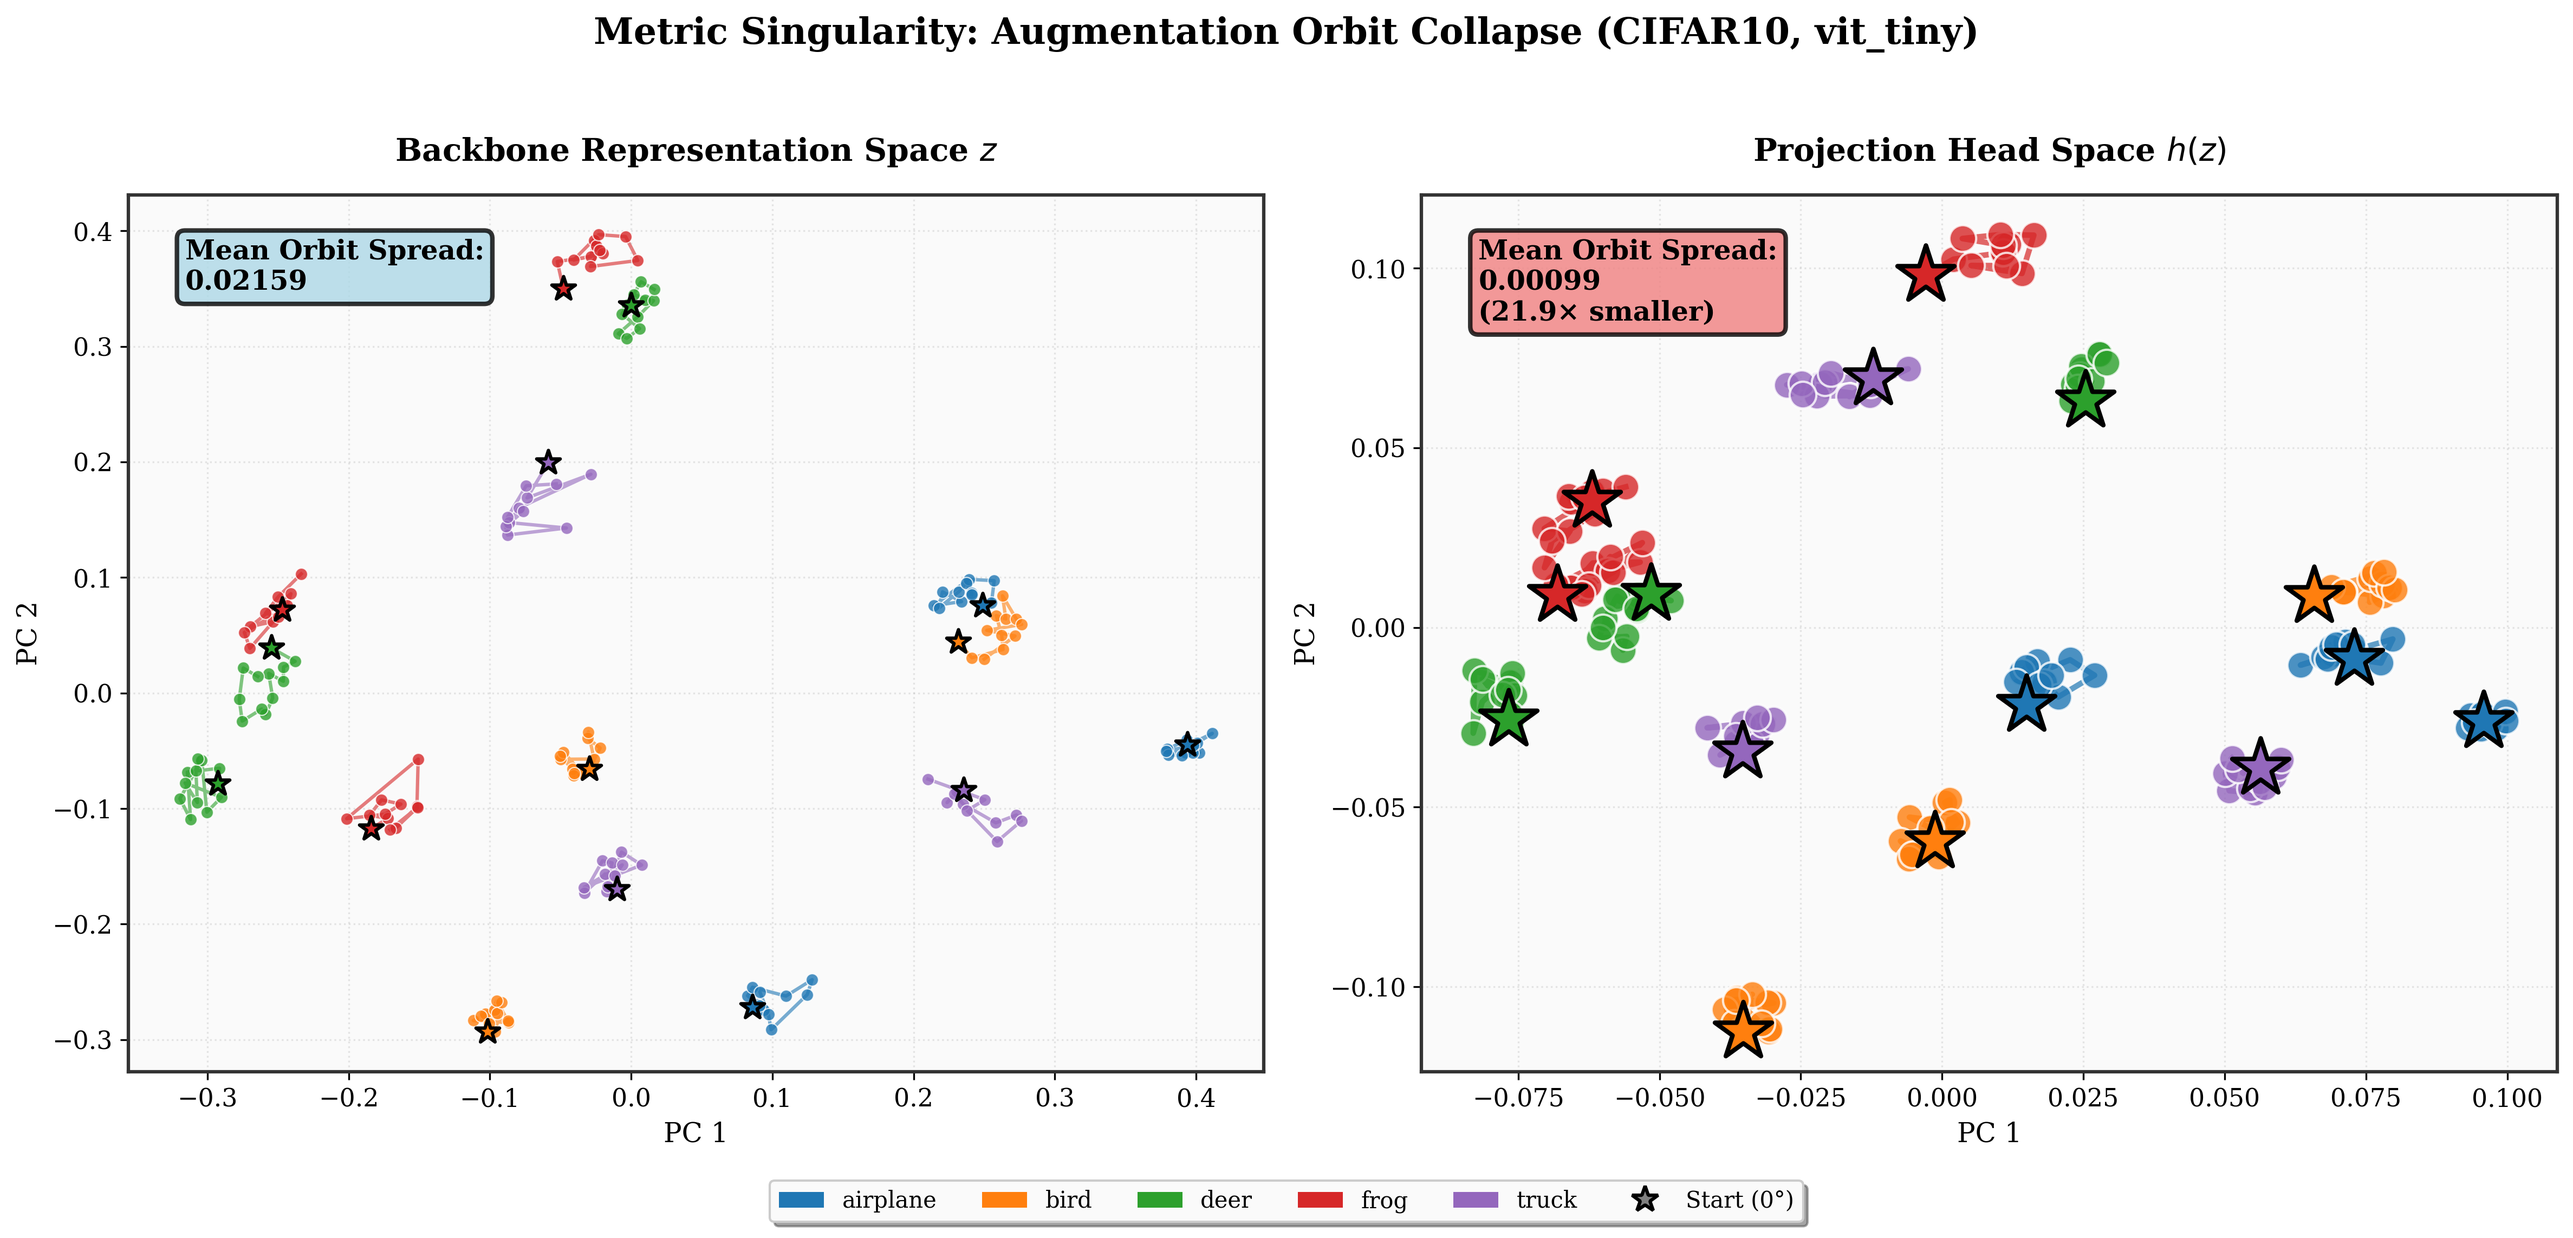
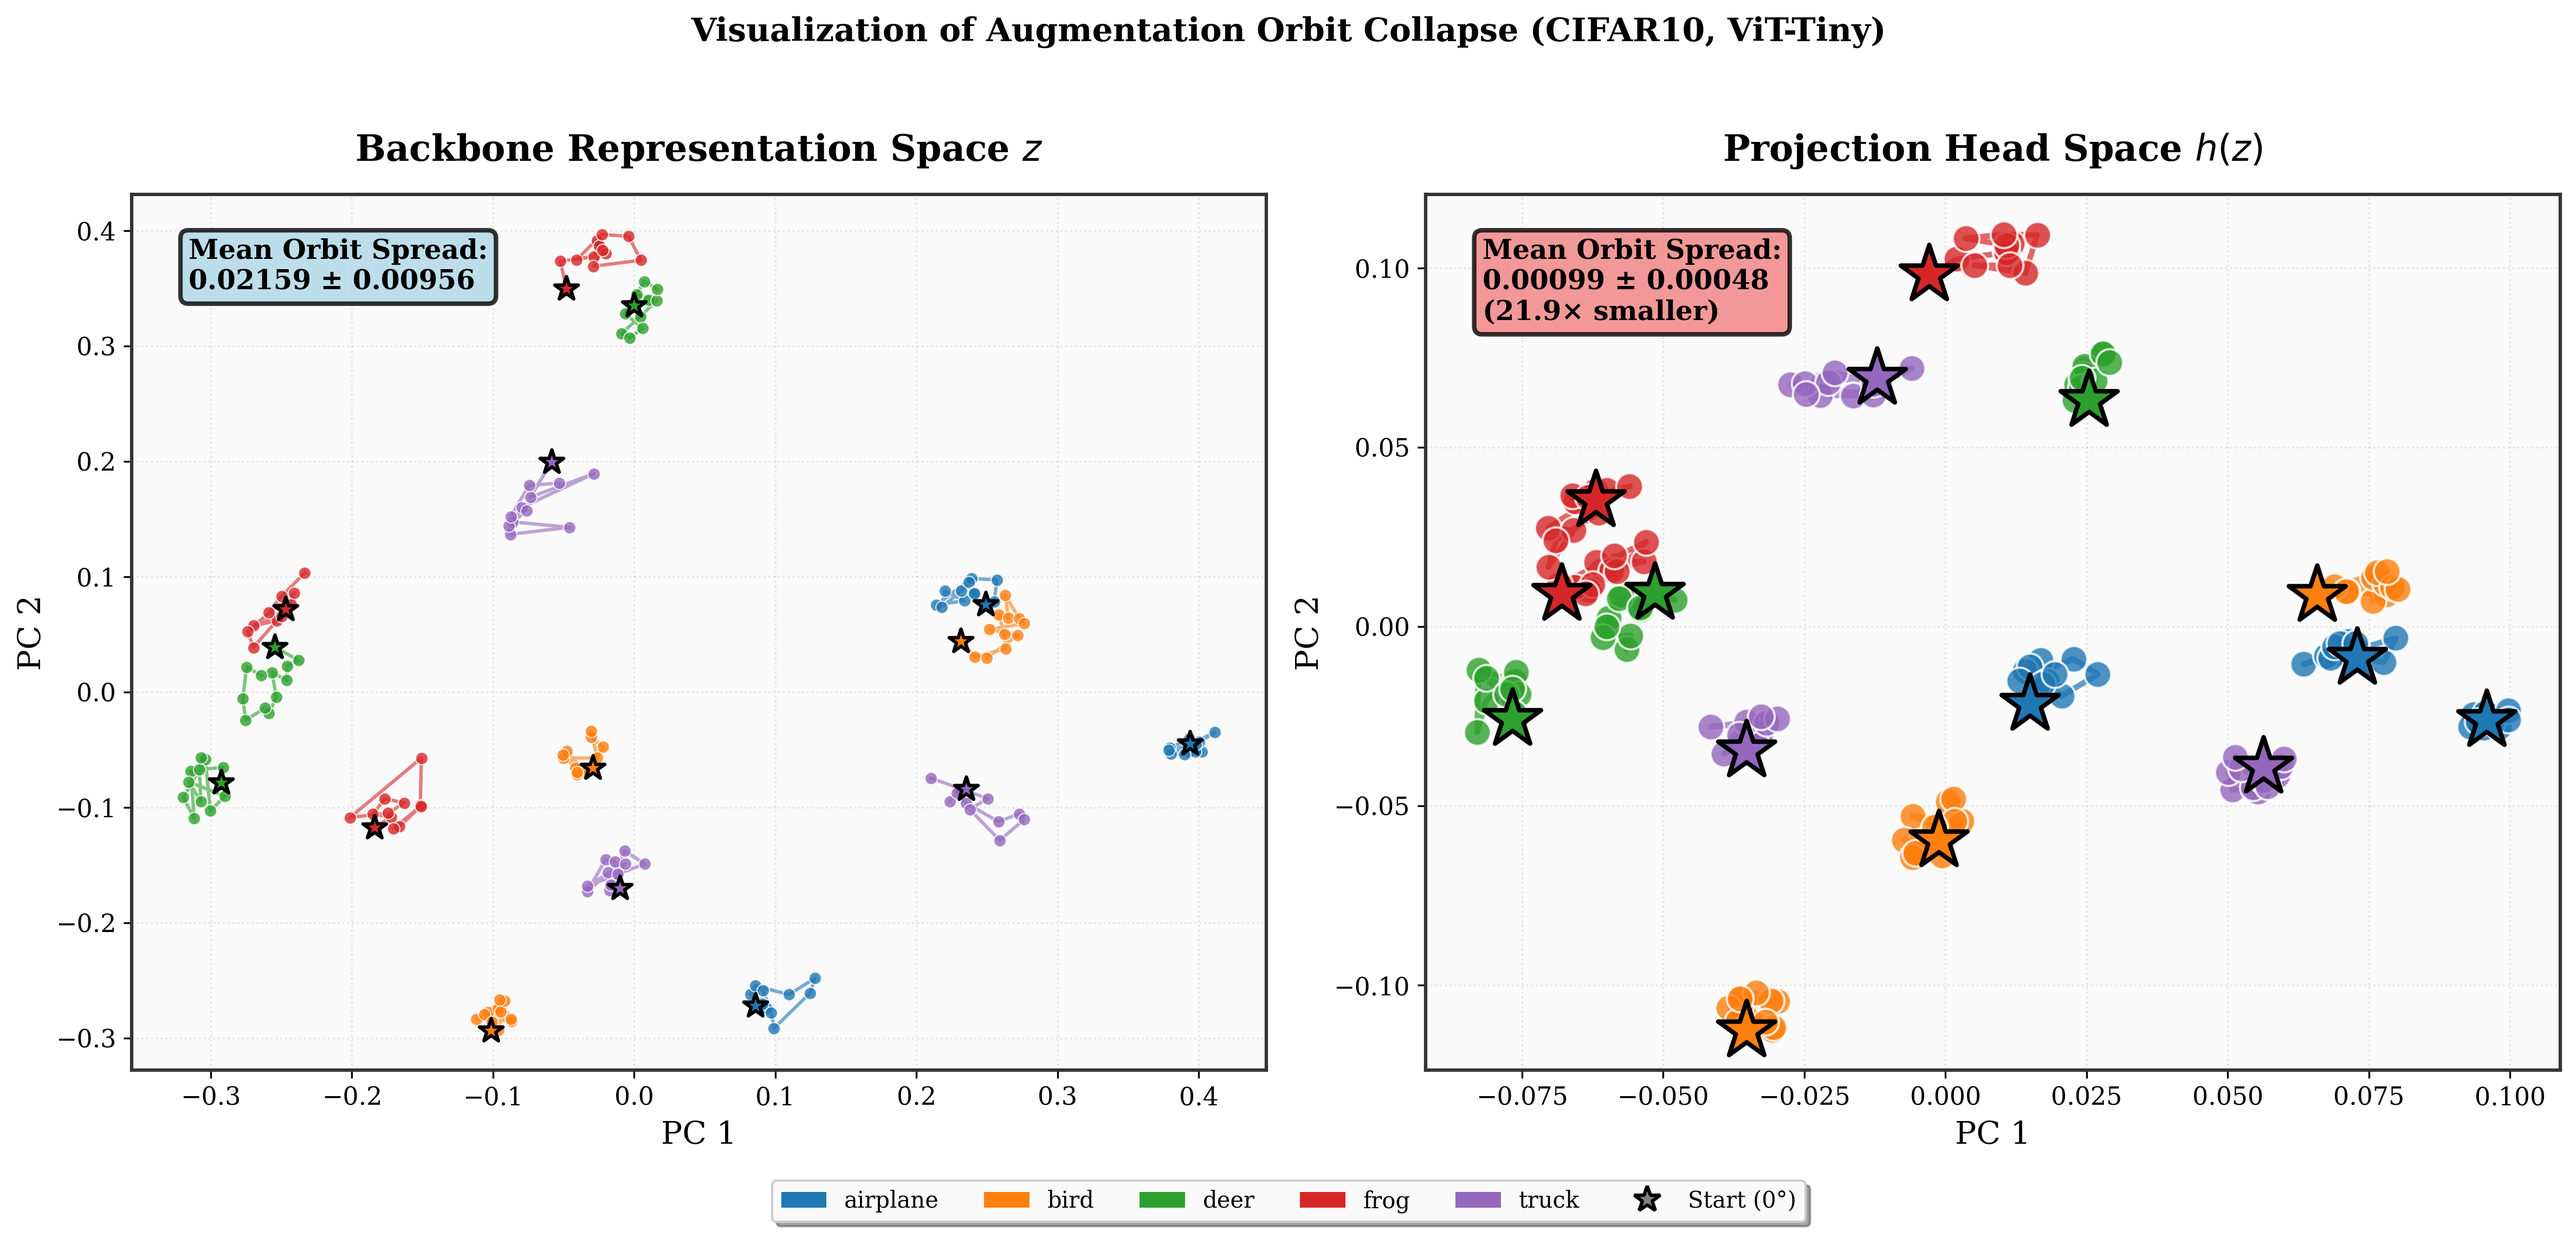
Improved plot style

diff --git a/plot_results.py b/plot_results.py
@@ -9,7 +9,32 @@ import os
 from sklearn.decomposition import PCA
 
 # Plotting style
-plt.rcParams.update({
+def single_plot_style() -> None:
+    """Set Matplotlib style for single plots."""
+    plt.rcParams.update({
+        'text.usetex': False,
+        'font.family': 'serif',
+        'font.size': 28,            
+        'axes.labelsize': 32,       
+        'axes.titlesize': 34,       
+        'xtick.labelsize': 26,      
+        'ytick.labelsize': 26,      
+        'legend.fontsize': 24,      
+        'legend.frameon': True,
+        'figure.figsize': (10, 8),  
+        'axes.grid': True,
+        'grid.alpha': 0.3,
+        'lines.linewidth': 2.5,
+        'axes.facecolor': '#FAFAFA',
+        'figure.facecolor': 'white',
+        'axes.edgecolor': '#333333',
+        'axes.linewidth': 1.5,
+        'grid.linewidth': 0.8,
+    })
+
+
+def double_plot_style() -> None:
+    plt.rcParams.update({
     'text.usetex': False,
     'font.family': 'serif',
     'font.size': 12,
@@ -30,20 +55,31 @@ plt.rcParams.update({
 })
 
 
+ARCHITECTURE_TO_TITLE = {
+    'resnet18': 'ResNet-18',
+    'vit_tiny': 'ViT-Tiny',
+}
+
+
 def plot_collapse_instability(results_dir, dataset, architecture):
     """Plot Experiment 1: Collapse Instability."""
     # Load results
+    single_plot_style()
     results = np.load(f'{results_dir}/collapse_results.npy', allow_pickle=True).item()
     
-    plt.figure(figsize=(10, 6.18))
+    plt.figure()
     
     colors = {'linear': '#1f77b4', 'relu': '#ff7f0e', 'gelu': '#2ca02c', 'swish': '#d62728'}
     styles = {'linear': '--', 'relu': '-', 'gelu': ':', 'swish': '-.'}
     activations = ['linear', 'relu', 'gelu', 'swish']
 
+    max_y_val = 0  # For setting y-axis limit in plot
     for activation in activations:
         if activation in results:
             epochs = range(len(results[activation]['mean']))
+            mean = np.array(results[activation]['mean'])
+            std = np.array(results[activation]['std'])
+            max_y_val = max(max_y_val, np.max(mean + std))
             plt.plot(epochs, results[activation]['mean'], 
                     label=f'{activation.upper()}', 
                     linestyle=styles.get(activation, '-'),
@@ -55,13 +91,15 @@ def plot_collapse_instability(results_dir, dataset, architecture):
                            alpha=0.2,
                            color=colors.get(activation))
     
-    plt.title(f'Collapse Instability ({dataset.upper()}, {architecture})', fontsize=12, fontweight='bold')
-    plt.xlabel('Training Epochs', fontsize=11)
-    plt.ylabel('Representation Std. Dev.', fontsize=11)
+    plt.title(f'Collapse Instability ({dataset.upper()}, {architecture})', fontweight='bold', pad=15)
+    plt.xlabel('Training Epochs')
+    plt.ylabel('Repr. Std. Dev.')
     
     # Force integer x-axis ticks
     ax = plt.gca()
+    # ax.set_ylim(0, max_y_val * 1.15) 
     ax.xaxis.set_major_locator(plt.MaxNLocator(integer=True))
+    ax.yaxis.set_major_locator(plt.MaxNLocator(nbins='auto', prune='upper'))
     
     plt.legend(frameon=True, shadow=True)
     plt.grid(alpha=0.3, linestyle=':')
@@ -74,6 +112,7 @@ def plot_collapse_instability(results_dir, dataset, architecture):
 def plot_geometric_mechanisms(results_dir, dataset, architecture):
     """Plot Experiment 2b: Combined Guillotine + Curvature."""
     # Load results
+    double_plot_style()
     guillotine = np.load(f'{results_dir}/guillotine_results.npy', allow_pickle=True).item()
     curvature = np.load(f'{results_dir}/curvature_results.npy', allow_pickle=True).item()
     
@@ -104,8 +143,8 @@ def plot_geometric_mechanisms(results_dir, dataset, architecture):
     bars2 = plt.bar(x_bar + width/2, [acc_z_mlp, acc_h_mlp], width,
                    label='MLP Probe', color='#ff7f0e', edgecolor='black', linewidth=1.5)
     
-    plt.ylabel('Rotation Accuracy', fontsize=11)
-    plt.title(f'Probing Loss ({dataset.upper()}, {architecture})', fontsize=12, fontweight='bold')
+    plt.ylabel('Rotation Accuracy')
+    plt.title(f'Probing Loss ({dataset.upper()}, {architecture})', fontweight='bold')
     plt.xticks(x_bar, ['Backbone (z)', 'Head (h(z))'])
     plt.ylim(0, 1.0)
     plt.axhline(0.25, color='gray', linestyle='--', alpha=0.5, linewidth=1)
@@ -116,7 +155,7 @@ def plot_geometric_mechanisms(results_dir, dataset, architecture):
         for bar in bars:
             height = bar.get_height()
             plt.text(bar.get_x() + bar.get_width()/2., height,
-                    f'{height:.3f}', ha='center', va='bottom', fontsize=9)
+                    f'{height:.3f}', ha='center', va='bottom')
     
     # Right subplot: Curvature results
     plt.subplot(1, 2, 2)
@@ -131,9 +170,8 @@ def plot_geometric_mechanisms(results_dir, dataset, architecture):
                   capsize=10,
                   error_kw={'linewidth': 2, 'ecolor': 'black'})
     
-    plt.ylabel('Local Curvature', fontsize=11)
-    plt.title(f'Manifold Curvature ({dataset.upper()}, {architecture}, {num_seeds} seeds)',
-             fontsize=12, fontweight='bold')
+    plt.ylabel('Local Curvature')
+    plt.title(f'Manifold Curvature ({dataset.upper()}, {architecture}, {num_seeds} seeds)', fontweight='bold')
     plt.xticks(x, ['Backbone (z)', 'Head (h(z))'])
     plt.grid(alpha=0.3, axis='y', linestyle=':')
     
@@ -143,11 +181,11 @@ def plot_geometric_mechanisms(results_dir, dataset, architecture):
         y_pos = height + std_val * 1.15
         plt.text(bar.get_x() + bar.get_width()/2., y_pos,
                 f'{height:.4f} ± {std_val:.4f}',
-                ha='center', va='bottom', fontsize=10, fontweight='bold')
+                ha='center', va='bottom', fontweight='bold')
     
     textstr = f'Curvature Ratio:\n{mean_ratio:.2f}x ± {std_ratio:.2f}x'
     props = dict(boxstyle='round', facecolor='wheat', alpha=0.5)
-    plt.text(0.05, 0.95, textstr, transform=plt.gca().transAxes, fontsize=11,
+    plt.text(0.05, 0.95, textstr, transform=plt.gca().transAxes,
             verticalalignment='top', horizontalalignment='left', bbox=props,
             fontweight='bold')
     
@@ -159,6 +197,7 @@ def plot_geometric_mechanisms(results_dir, dataset, architecture):
 def plot_orbit_visualization(results_dir, dataset, architecture):
     """Plot Experiment 2c: Orbit Visualization via PCA."""
     # Load orbit data
+    double_plot_style()
     orbit_data = np.load(f'{results_dir}/orbit_visualization.npy', allow_pickle=True).item()
     
     orbits_z = orbit_data['orbits_z']
@@ -190,12 +229,16 @@ def plot_orbit_visualization(results_dir, dataset, architecture):
         orbit_variances_z.append(var_z)
         orbit_variances_h.append(var_h)
     
-    mean_var_z = np.mean(orbit_variances_z)
-    mean_var_h = np.mean(orbit_variances_h)
+    ov_z = np.array(orbit_variances_z)
+    ov_h = np.array(orbit_variances_h)
     
-    print(f'Backbone (z) - Mean orbit variance: {mean_var_z:.6f}')
-    print(f'Head (h(z))  - Mean orbit variance: {mean_var_h:.6f}')
-    print(f'Orbit compression ratio: {mean_var_z / (mean_var_h + 1e-10):.2f}x')
+    mean_z, std_z = np.mean(ov_z), np.std(ov_z)
+    mean_h, std_h = np.mean(ov_h), np.std(ov_h)
+    comp_ratio = mean_z / (mean_h + 1e-10)
+    
+    print(f'Backbone (z) - Mean orbit variance: {mean_z:.6f} ± {std_z:.6f}')
+    print(f'Head (h(z))  - Mean orbit variance: {mean_h:.6f} ± {std_h:.6f}')
+    print(f'Orbit compression ratio: {comp_ratio:.2f}x')
     
     # Apply PCA to reduce to 2D for visualization
     print('\n=== PCA PROJECTION (L2-Normalized Representations) ===')
@@ -244,7 +287,7 @@ def plot_orbit_visualization(results_dir, dataset, architecture):
     fig, axes = plt.subplots(1, 2, figsize=(16, 7))
     
     # Calculate compression ratio for use in plot
-    compression_ratio = mean_var_z / (mean_var_h + 1e-10)
+    compression_ratio = mean_z / (mean_h + 1e-10)
     
     # Color palette for classes
     colors = plt.cm.tab10(np.linspace(0, 1, 10))
@@ -270,14 +313,14 @@ def plot_orbit_visualization(results_dir, dataset, architecture):
                   color=class_colors[class_label], s=120, marker='*',
                   edgecolors='black', linewidths=1.5, zorder=3)
     
-    ax.set_title('Backbone Representation Space $z$', fontsize=14, fontweight='bold', pad=15)
-    ax.set_xlabel('PC 1', fontsize=12)
-    ax.set_ylabel('PC 2', fontsize=12)
+    ax.set_title('Backbone Representation Space $z$', fontweight='bold', pad=15)
+    ax.set_xlabel('PC 1')
+    ax.set_ylabel('PC 2')
     ax.grid(True, alpha=0.3, linestyle=':')
     
-    textstr = f'Mean Orbit Spread:\n{mean_var_z:.5f}'
+    textstr = f'Mean Orbit Spread:\n{mean_z:.5f} ± {std_z:.5f}'
     props = dict(boxstyle='round', facecolor='lightblue', alpha=0.8, edgecolor='black', linewidth=2)
-    ax.text(0.05, 0.95, textstr, transform=ax.transAxes, fontsize=12,
+    ax.text(0.05, 0.95, textstr, transform=ax.transAxes,
             verticalalignment='top', bbox=props, fontweight='bold')
     
     # Plot projection head space (right)
@@ -304,15 +347,15 @@ def plot_orbit_visualization(results_dir, dataset, architecture):
                   color=class_colors[class_label], s=150*marker_scale, marker='*',
                   edgecolors='black', linewidths=2.0, zorder=3)
     
-    ax.set_title('Projection Head Space $h(z)$', fontsize=14, fontweight='bold', pad=15)
-    ax.set_xlabel('PC 1', fontsize=12)
-    ax.set_ylabel('PC 2', fontsize=12)
+    ax.set_title('Projection Head Space $h(z)$', fontweight='bold', pad=15)
+    ax.set_xlabel('PC 1')
+    ax.set_ylabel('PC 2')
     ax.grid(True, alpha=0.3, linestyle=':')
     
     # Add orbit variance only
-    textstr = f'Mean Orbit Spread:\n{mean_var_h:.5f}\n({compression_ratio:.1f}× smaller)'
+    textstr = f'Mean Orbit Spread:\n{mean_h:.5f} ± {std_h:.5f}\n({comp_ratio:.1f}× smaller)'
     props = dict(boxstyle='round', facecolor='lightcoral', alpha=0.8, edgecolor='black', linewidth=2)
-    ax.text(0.05, 0.95, textstr, transform=ax.transAxes, fontsize=12,
+    ax.text(0.05, 0.95, textstr, transform=ax.transAxes,
             verticalalignment='top', bbox=props, fontweight='bold')
     
     legend_elements = [Patch(facecolor=class_colors[label], label=class_names[i]) 
@@ -325,8 +368,8 @@ def plot_orbit_visualization(results_dir, dataset, architecture):
     fig.legend(handles=legend_elements, loc='lower center', ncol=6, 
               frameon=True, shadow=True, fontsize=10, bbox_to_anchor=(0.5, -0.05))
     
-    plt.suptitle(f'Metric Singularity: Augmentation Orbit Collapse ({dataset.upper()}, {architecture})', 
-                fontsize=16, fontweight='bold', y=1.02)
+    plt.suptitle(f'Visualization of Augmentation Orbit Collapse ({dataset.upper()}, {architecture})', 
+                fontweight='bold', y=1.02)
     
     plt.tight_layout()
     plt.savefig(f'{results_dir}/fig3_orbit_visualization.png', dpi=300, bbox_inches='tight')
@@ -343,6 +386,7 @@ if __name__ == '__main__':
     args = parser.parse_args()
     
     results_dir = f'results/{args.dataset}/{args.architecture}'
+    architecture_title = ARCHITECTURE_TO_TITLE.get(args.architecture, args.architecture)
     
     if not os.path.exists(results_dir):
         print(f'Error: Results directory not found: {results_dir}')
@@ -355,21 +399,21 @@ if __name__ == '__main__':
     # Plot Figure 1
     if os.path.exists(f'{results_dir}/collapse_results.npy'):
         print('Creating Figure 1: Collapse Instability')
-        plot_collapse_instability(results_dir, args.dataset, args.architecture)
+        plot_collapse_instability(results_dir, args.dataset, architecture_title)
     else:
         print('Skipping Figure 1: collapse_results.npy not found')
     
     # Plot Figure 2
     if os.path.exists(f'{results_dir}/guillotine_results.npy') and os.path.exists(f'{results_dir}/curvature_results.npy'):
         print('Creating Figure 2: Geometric Mechanisms')
-        plot_geometric_mechanisms(results_dir, args.dataset, args.architecture)
+        plot_geometric_mechanisms(results_dir, args.dataset, architecture_title)
     else:
         print('Skipping Figure 2: Required data files not found')
     
     # Plot Figure 3
     if os.path.exists(f'{results_dir}/orbit_visualization.npy'):
         print('Creating Figure 3: Orbit Visualization')
-        plot_orbit_visualization(results_dir, args.dataset, args.architecture)
+        plot_orbit_visualization(results_dir, args.dataset, architecture_title)
     else:
         print('Skipping Figure 3: orbit_visualization.npy not found')
     
